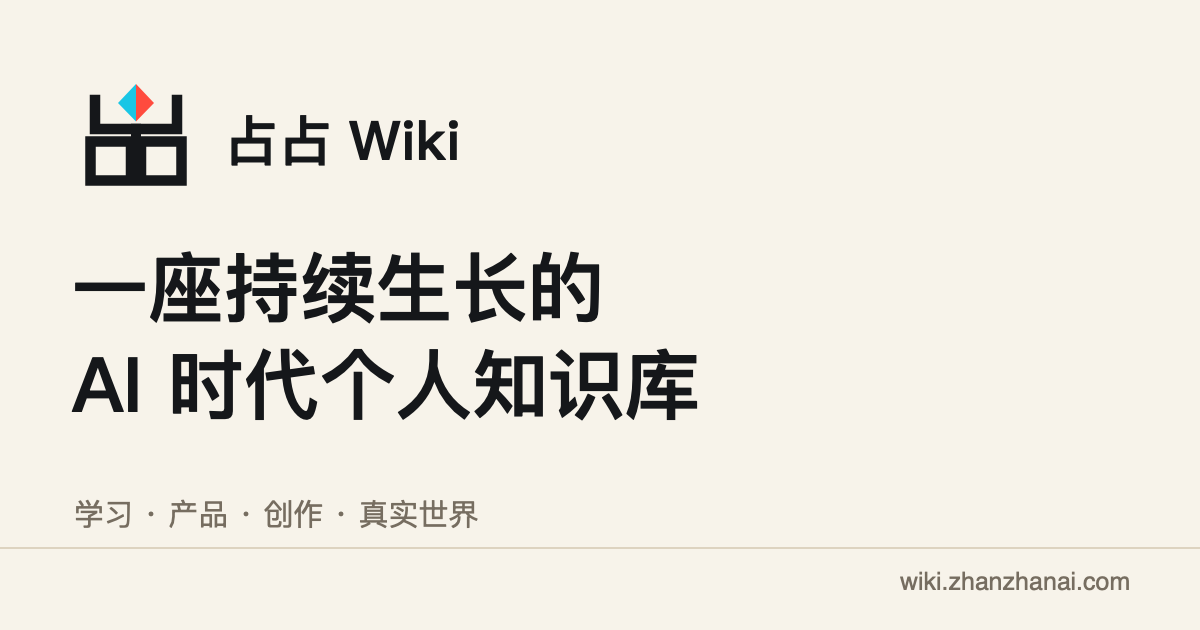
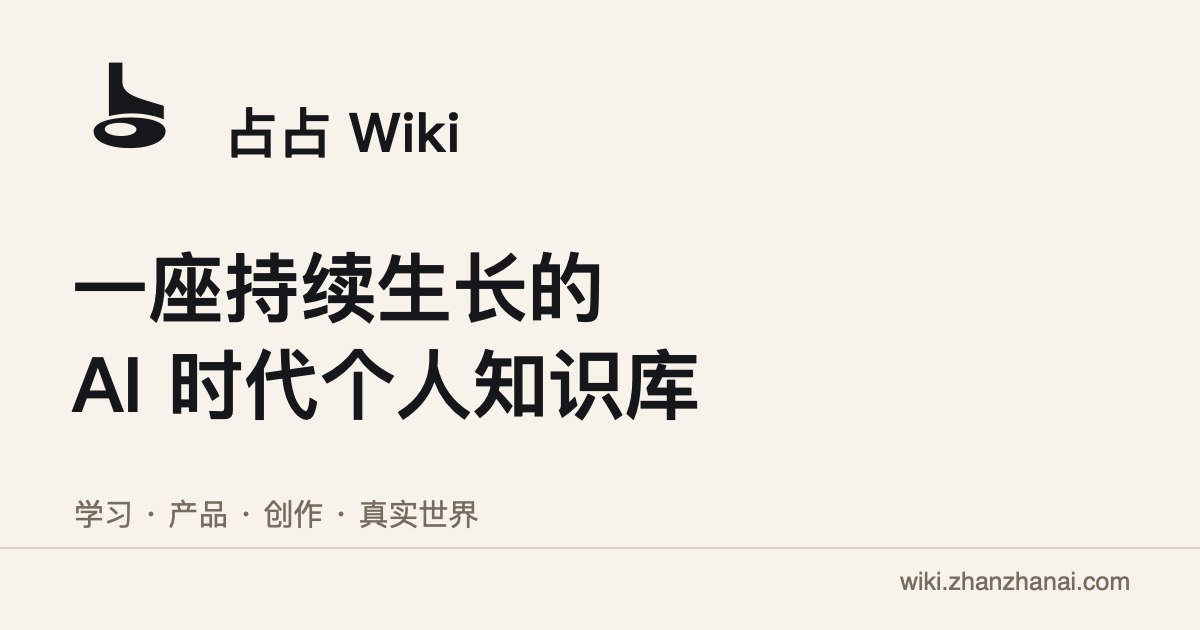
refactor(brand): adopt calligraphic Zhanzhan mark

Changed region(s): [[0.185, 0.181, 0.4008, 0.2714], [0.0617, 0.0905, 0.1542, 0.3016]]

diff --git a/quartz/components/Header.tsx b/quartz/components/Header.tsx
@@ -458,20 +458,16 @@ const Header: QuartzComponent = ({ children, fileData, allFiles }: QuartzCompone
         class="doc-header-brand"
         href={resolveRelative(slug, (isEnglish ? "en/index" : "index") as FullSlug)}
       >
-        <svg class="doc-header-brand-mark" viewBox="0 0 512 512" aria-hidden="true">
-          <g
-            fill="none"
-            stroke="currentColor"
-            stroke-width="42"
-            stroke-linecap="square"
-            stroke-linejoin="miter"
-          >
-            <path d="M92 112v116h144M420 112v116H276" />
-            <path d="M74 278h162v156H74zM276 278h162v156H276z" />
-          </g>
-          <path fill="currentColor" d="M236 207h40v92h-40z" />
-          <path fill="#19c6e5" d="M256 48 184 124l72 74z" />
-          <path fill="#ff4b3e" d="m256 48 72 76-72 74z" />
+        <svg class="doc-header-brand-mark" viewBox="0 0 256 256" aria-hidden="true">
+          <path
+            fill="currentColor"
+            d="M82 28h30v43c0 18 15 28 37 36 17 6 35 11 55 17v30c-39-15-80-17-122-7V28Z"
+          />
+          <path
+            fill="currentColor"
+            fill-rule="evenodd"
+            d="M48 181c0-20 36-31 82-31 48 0 78 12 78 30 0 23-34 38-80 38-45 0-80-14-80-37Zm25-7c-2 9 12 16 31 17 20 1 37-4 39-13 2-8-11-14-30-16-19-1-38 3-40 12Z"
+          />
         </svg>
         <span>占占 Wiki</span>
       </a>

diff --git a/quartz/components/Head.tsx b/quartz/components/Head.tsx
@@ -27,7 +27,7 @@ export default (() => {
     const path = url.pathname as FullSlug
     const baseDir = fileData.slug === "404" ? path : pathToRoot(fileData.slug!)
     // Keep the favicon URL versioned so browsers do not reuse an older brand asset.
-    const iconPath = `${joinSegments(baseDir, "static/icon.png")}?v=zhanzhan-v1`
+    const iconPath = `${joinSegments(baseDir, "static/icon.png")}?v=zhanzhan-v2`
 
     // Url of current page
     const socialUrl =
